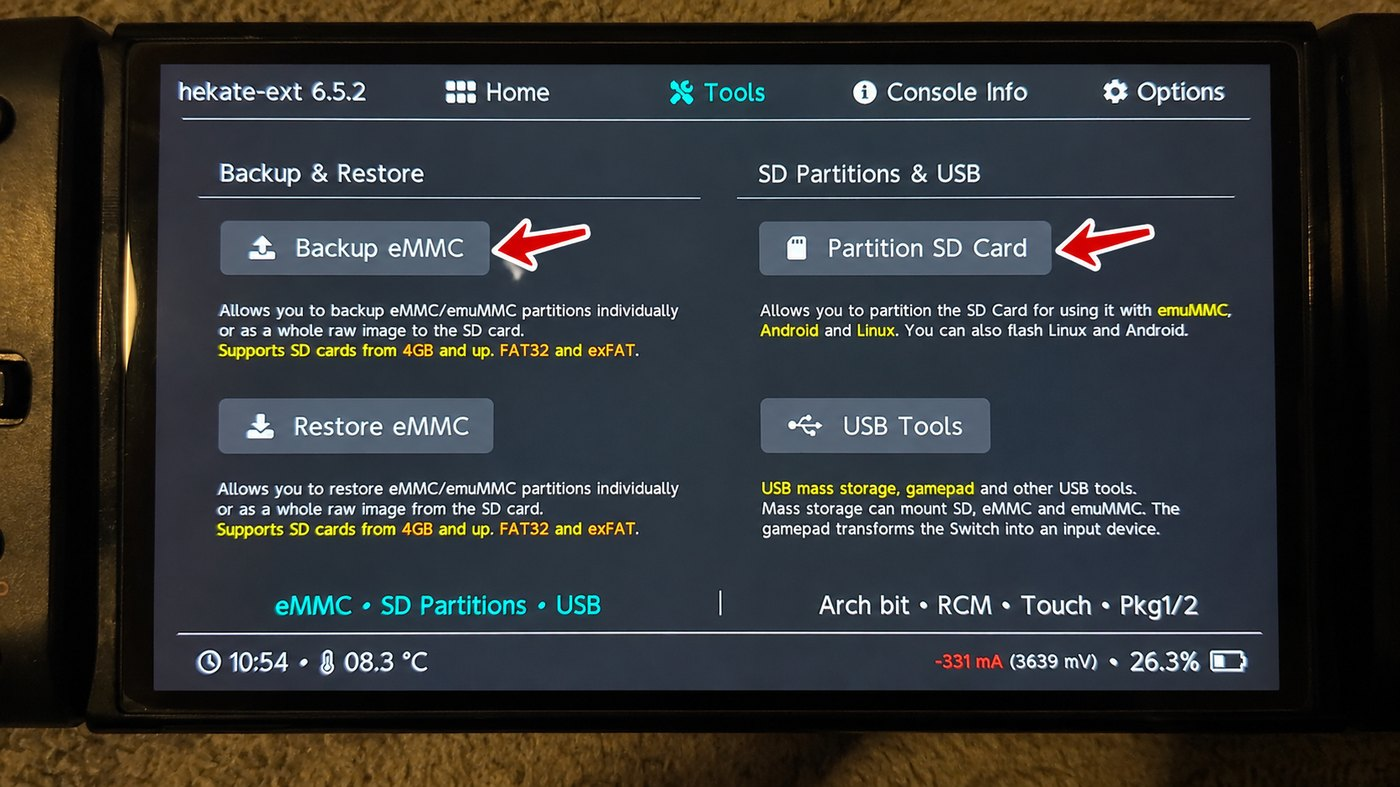
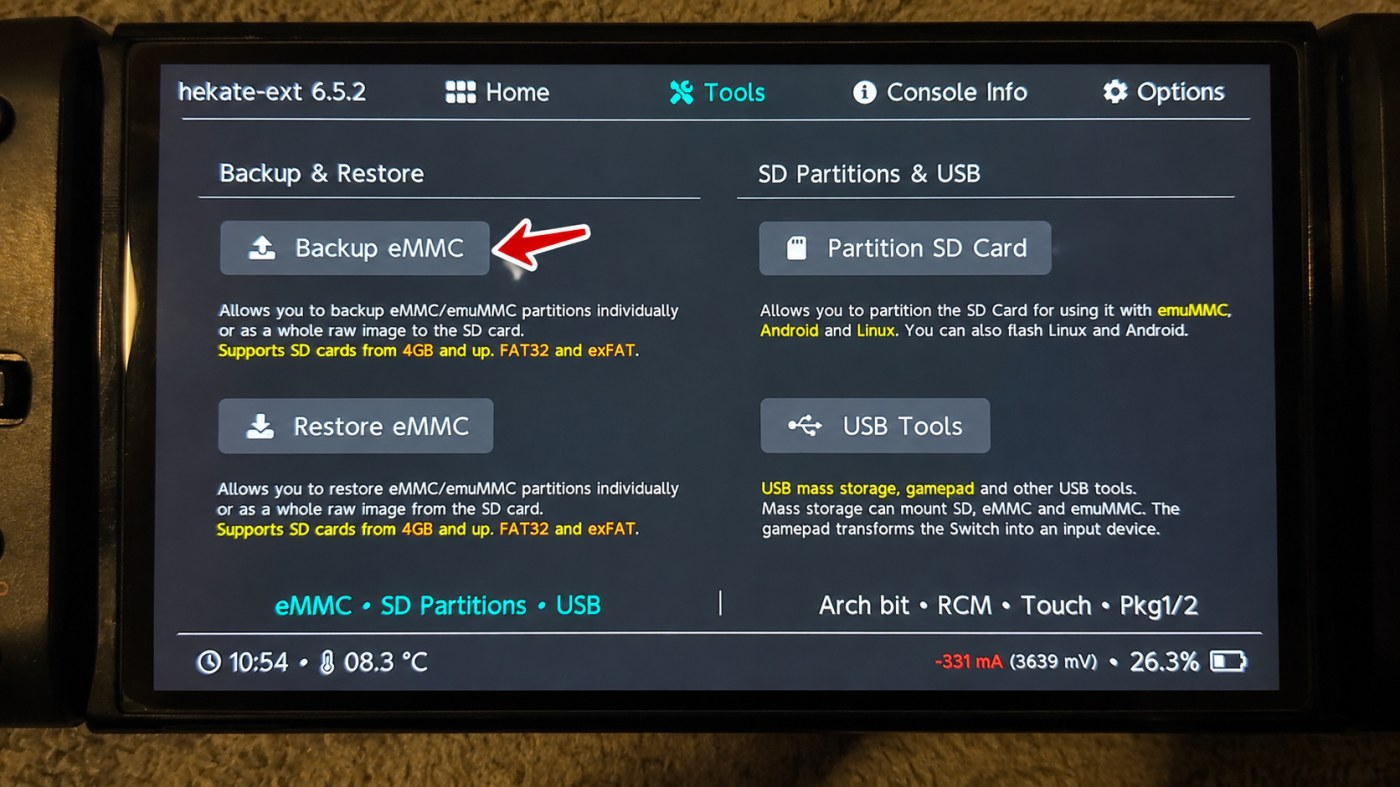
Guide: one arrow per step on reused screenshots, add partition slider heads-up
Claude-Session: https://claude.ai/code/session_019JWVu8ZwXzrpTNM5ApY9n7

Changed region(s): [[0.7371, 0.2745, 0.8293, 0.3659]]

diff --git a/index.html b/index.html
@@ -426,7 +426,7 @@ function ShipInstructions({cfg,refNo,q,name}){const live=cfg.serviceEnabled;cons
  <div className="rounded-3xl bg-sunk p-5"><p className="font-bold">What happens next</p><p className="text-sm text-mute mt-1">Arrival photos → modded and tested (${cfg.turnaround.replace(/^Est\.\s*/,'est. ')}) → completion photos → shipped back with USPS tracking.</p></div>
  <div><${Btn} kind="out" onClick=${()=>location.hash='home'}>Back to home<//></div></div>`}
 /* ===== Setup guide (content in GUIDE; photos in IMAGES guide1–guide13) ===== */
-const GUIDE=[{"t": "Format your SD card to FAT32", "items": ["Insert your microSD card into your computer.", "Download and open Rufus.", "Select your microSD card under Device.", "Set Boot selection to <b>Non bootable</b>.", "Set File system to <b>FAT32</b> or <b>Large FAT32</b>.", "Click Start and wait for formatting to finish.", {"img": 1}], "warn": "Formatting deletes everything on the SD card. Back up anything important first."}, {"t": "Install the HATS pack", "items": ["Download the latest compatible HATS pack by sthetix.", "Extract the downloaded ZIP file.", "Copy all extracted files and folders onto the root of your SD card.", "Safely eject the SD card from your computer.", {"img": 2}]}, {"t": "Boot into Hekate", "items": ["Insert the SD card into your Switch.", "Turn on your console.", "You should see the Hekate home screen.", {"img": 3}, "Select <b>Tools</b> at the top of the screen."]}, {"t": "Back up your Switch", "items": ["Select <b>Backup eMMC</b> under Backup & Restore.", {"img": 4}, "Make sure <b>SD emuMMC Raw Partition</b> is set to OFF.", "Select <b>eMMC BOOT0 & BOOT1</b> and wait for it to finish.", "Select <b>eMMC RAW GPP</b> and wait. This can take 10–60 minutes or more, depending on your SD card speed.", {"img": 5}, "Power off your Switch and put the SD card in your computer.", "Copy the whole <b>backup</b> folder to your computer for safekeeping.", "Put the SD card back in your Switch and boot into Hekate."], "warn": "Don't skip saving the backup to your computer. Partitioning the SD card can erase it."}, {"t": "Partition your SD card", "items": ["Go to <b>Tools → Partition SD Card</b>.", {"img": 6}, "Find the red <b>emuMMC (RAW)</b> slider.", "Slide it right until it shows the FULL size for your console (table below).", {"table": 1}, "Leave the Linux and Android sliders at zero.", "Select <b>Next Step</b> and follow the on-screen steps.", "Wait for partitioning to finish.", {"img": 7}], "note": "If your HATS files were removed during partitioning, copy them back onto the FAT32 partition before continuing."}, {"t": "Create emuMMC", "items": ["Go back to the Hekate home screen.", "Select <b>emuMMC</b>.", {"img": 8}, "Select <b>Create emuMMC</b>.", {"img": 9}, "Select <b>SD Partition</b> or <b>SD Raw Partition</b>, depending on your Hekate version.", "Select the available partition.", "Wait for it to finish.", "Check that emuMMC shows <b>Enabled!</b> (top left of the screen above)."]}, {"t": "Restore the HATS pack", "items": ["Power off your Switch.", "Put the SD card in your computer.", "Copy the full extracted HATS pack onto the FAT32 partition again if needed.", "Replace existing files if asked, but keep the new <b>emuMMC</b> folder and settings.", "Safely eject the SD card and put it back in your Switch.", {"img": 11}], "warn": "If Windows asks to format an unreadable partition, click Cancel."}, {"t": "Launch Atmosphère", "items": ["Turn on your Switch.", "Select <b>Launch</b> on the Hekate home screen.", "Select the <b>Atmosphère emuMMC</b> option.", {"img": 12}, "Once it boots, go to <b>System Settings → System</b>.", "Check that the system version includes <b>AMS</b> and ends with <b>E</b>.", {"img": 13}], "done": "You're set up and ready for homebrew. Keep your NAND backup somewhere safe in case you ever need it for recovery."}];
+const GUIDE=[{"t": "Format your SD card to FAT32", "items": ["Insert your microSD card into your computer.", "Download and open Rufus.", "Select your microSD card under Device.", "Set Boot selection to <b>Non bootable</b>.", "Set File system to <b>FAT32</b> or <b>Large FAT32</b>.", "Click Start and wait for formatting to finish.", {"img": 1}], "warn": "Formatting deletes everything on the SD card. Back up anything important first."}, {"t": "Install the HATS pack", "items": ["Download the latest compatible HATS pack by sthetix.", "Extract the downloaded ZIP file.", "Copy all extracted files and folders onto the root of your SD card.", "Safely eject the SD card from your computer.", {"img": 2}]}, {"t": "Boot into Hekate", "items": ["Insert the SD card into your Switch.", "Turn on your console.", "You should see the Hekate home screen.", {"img": 3}, "Select <b>Tools</b> at the top of the screen."]}, {"t": "Back up your Switch", "items": ["Select <b>Backup eMMC</b> under Backup & Restore.", {"img": 4}, "Make sure <b>SD emuMMC Raw Partition</b> is set to OFF.", "Select <b>eMMC BOOT0 & BOOT1</b> and wait for it to finish.", "Select <b>eMMC RAW GPP</b> and wait. This can take 10–60 minutes or more, depending on your SD card speed.", {"img": 5}, "Power off your Switch and put the SD card in your computer.", "Copy the whole <b>backup</b> folder to your computer for safekeeping.", "Put the SD card back in your Switch and boot into Hekate."], "warn": "Don't skip saving the backup to your computer. Partitioning the SD card can erase it."}, {"t": "Partition your SD card", "items": ["Go to <b>Tools → Partition SD Card</b>.", {"img": 6}, "Find the red <b>emuMMC (RAW)</b> slider.", "Slide it right until it shows the FULL size for your console (table below).", {"table": 1}, "Leave the Linux and Android sliders at zero.", "Select <b>Next Step</b> and follow the on-screen steps.", "Wait for partitioning to finish.", {"tip": "Heads up: the slider won\u2019t just say FULL. It shows a number with it that depends on your model (29 for Original/Lite, 58 for OLED), and that spot is usually near the middle of the slider, not all the way right. Double-check the number matches your Switch."}, {"img": 7}], "note": "If your HATS files were removed during partitioning, copy them back onto the FAT32 partition before continuing."}, {"t": "Create emuMMC", "items": ["Go back to the Hekate home screen.", "Select <b>emuMMC</b>.", {"img": 8}, "Select <b>Create emuMMC</b>.", {"img": 9}, "Select <b>SD Partition</b> or <b>SD Raw Partition</b>, depending on your Hekate version.", "Select the available partition.", "Wait for it to finish.", "Check that emuMMC shows <b>Enabled!</b> (top left of the screen above)."]}, {"t": "Restore the HATS pack", "items": ["Power off your Switch.", "Put the SD card in your computer.", "Copy the full extracted HATS pack onto the FAT32 partition again if needed.", "Replace existing files if asked, but keep the new <b>emuMMC</b> folder and settings.", "Safely eject the SD card and put it back in your Switch.", {"img": 11}], "warn": "If Windows asks to format an unreadable partition, click Cancel."}, {"t": "Launch Atmosphère", "items": ["Turn on your Switch.", "Select <b>Launch</b> on the Hekate home screen.", "Select the <b>Atmosphère emuMMC</b> option.", {"img": 12}, "Once it boots, go to <b>System Settings → System</b>.", "Check that the system version includes <b>AMS</b> and ends with <b>E</b>.", {"img": 13}], "done": "You're set up and ready for homebrew. Keep your NAND backup somewhere safe in case you ever need it for recovery."}];
 const GLINKS=[['HATS pack','https://github.com/sthetix/HATS/releases'],['Rufus','https://rufus.ie/']];
 const linkify=t=>GLINKS.reduce((acc,[w,u])=>acc.split(w).join('<a href="'+u+'" target="_blank" rel="noopener" class="font-semibold text-acc underline underline-offset-2">'+w+' ↗</a>'),t);
 function GuidePage({cfg}){const N=GUIDE.length;
@@ -448,7 +448,7 @@ function GuidePage({cfg}){const N=GUIDE.length;
    ${cur===0?html`<div className="rounded-2xl bg-sunk p-4"><p className="font-bold mb-2">You'll need</p><ul className="grid gap-1.5 sm:grid-cols-2 text-sm">${['A modded Switch','microSD card, 128GB+ recommended','Computer with a card reader','Rufus','HATS pack by sthetix'].map(t=>html`<li key=${t} className="flex gap-2"><span className="text-ok font-bold" aria-hidden="true">✓</span>${B(t)}</li>`)}</ul></div>`:null}
    <div><p className="font-mono text-sm text-acc num">Step ${cur+1} of ${N}</p><h2 className="text-2xl md:text-4xl font-extrabold leading-tight mt-1" style=${{fontStretch:'80%'}}>${g.t}</h2></div>
    ${g.warn?html`<div className="rounded-2xl bg-warnsoft text-warn p-3 text-sm font-medium">⚠ ${g.warn}</div>`:null}
-   <ol className="flex flex-col gap-4">${(()=>{let n=0;return g.items.map((it,k)=>typeof it==='string'?html`<li key=${k} className="flex gap-3"><span className="grid place-items-center h-7 w-7 shrink-0 rounded-full bg-sunk font-mono text-sm font-semibold num">${++n}</span><span className="pt-0.5">${B(it)}</span></li>`:it.img?html`<li key=${k} className="list-none"><${Img} k=${'guide'+it.img} cls="rounded-2xl border border-line bg-sunk" fallback=${html`<div className="ph absolute inset-0 grid place-items-center p-3"><span className="rounded-full bg-card px-3 py-1 text-xs font-semibold text-mute border border-line">Photo ${it.img} coming soon</span></div>`}/></li>`:html`<li key=${k} className="list-none overflow-x-auto"><table className="w-full text-sm num rounded-2xl"><thead><tr className="text-left text-mute"><th className="py-2 font-semibold">Your Switch</th><th className="py-2 font-semibold">emuMMC slider</th></tr></thead><tbody>${[['Original Switch (V1/V2)','29 FULL'],['Switch Lite','29 FULL'],['Switch OLED','58 FULL']].map(([a,b])=>html`<tr key=${a} className="border-t border-line"><td className="py-2">${a}</td><td className="py-2 font-mono font-semibold">${b}</td></tr>`)}</tbody></table></li>`)})()}</ol>
+   <ol className="flex flex-col gap-4">${(()=>{let n=0;return g.items.map((it,k)=>typeof it==='string'?html`<li key=${k} className="flex gap-3"><span className="grid place-items-center h-7 w-7 shrink-0 rounded-full bg-sunk font-mono text-sm font-semibold num">${++n}</span><span className="pt-0.5">${B(it)}</span></li>`:it.tip?html`<li key=${k} className="list-none rounded-2xl border-2 border-warn bg-warnsoft text-warn p-3 text-sm font-medium">⚠ ${it.tip}</li>`:it.img?html`<li key=${k} className="list-none"><${Img} k=${'guide'+it.img} cls="rounded-2xl border border-line bg-sunk" fallback=${html`<div className="ph absolute inset-0 grid place-items-center p-3"><span className="rounded-full bg-card px-3 py-1 text-xs font-semibold text-mute border border-line">Photo ${it.img} coming soon</span></div>`}/></li>`:html`<li key=${k} className="list-none overflow-x-auto"><table className="w-full text-sm num rounded-2xl"><thead><tr className="text-left text-mute"><th className="py-2 font-semibold">Your Switch</th><th className="py-2 font-semibold">emuMMC slider</th></tr></thead><tbody>${[['Original Switch (V1/V2)','29 FULL'],['Switch Lite','29 FULL'],['Switch OLED','58 FULL']].map(([a,b])=>html`<tr key=${a} className="border-t border-line"><td className="py-2">${a}</td><td className="py-2 font-mono font-semibold">${b}</td></tr>`)}</tbody></table></li>`)})()}</ol>
    ${g.note?html`<p className="text-sm text-mute rounded-2xl bg-sunk p-3">${B(g.note)}</p>`:null}
    ${g.done&&allDone?html`<div className="fade rounded-2xl bg-accsoft p-4"><p className="font-bold">🎉 You're all set!</p><p className="text-sm text-mute mt-1">${g.done}</p></div>`:null}
    <div className="flex items-center justify-between gap-3 border-t border-line pt-5"><${Btn} kind="out" disabled=${cur===0} onClick=${()=>go(cur-1)}>Back<//>${cur<N-1?html`<${Btn} onClick=${next}>Done, next step →<//>`:html`<${Btn} onClick=${next} disabled=${allDone}>${allDone?'Finished ✓':'Finish'}<//>`}</div>
